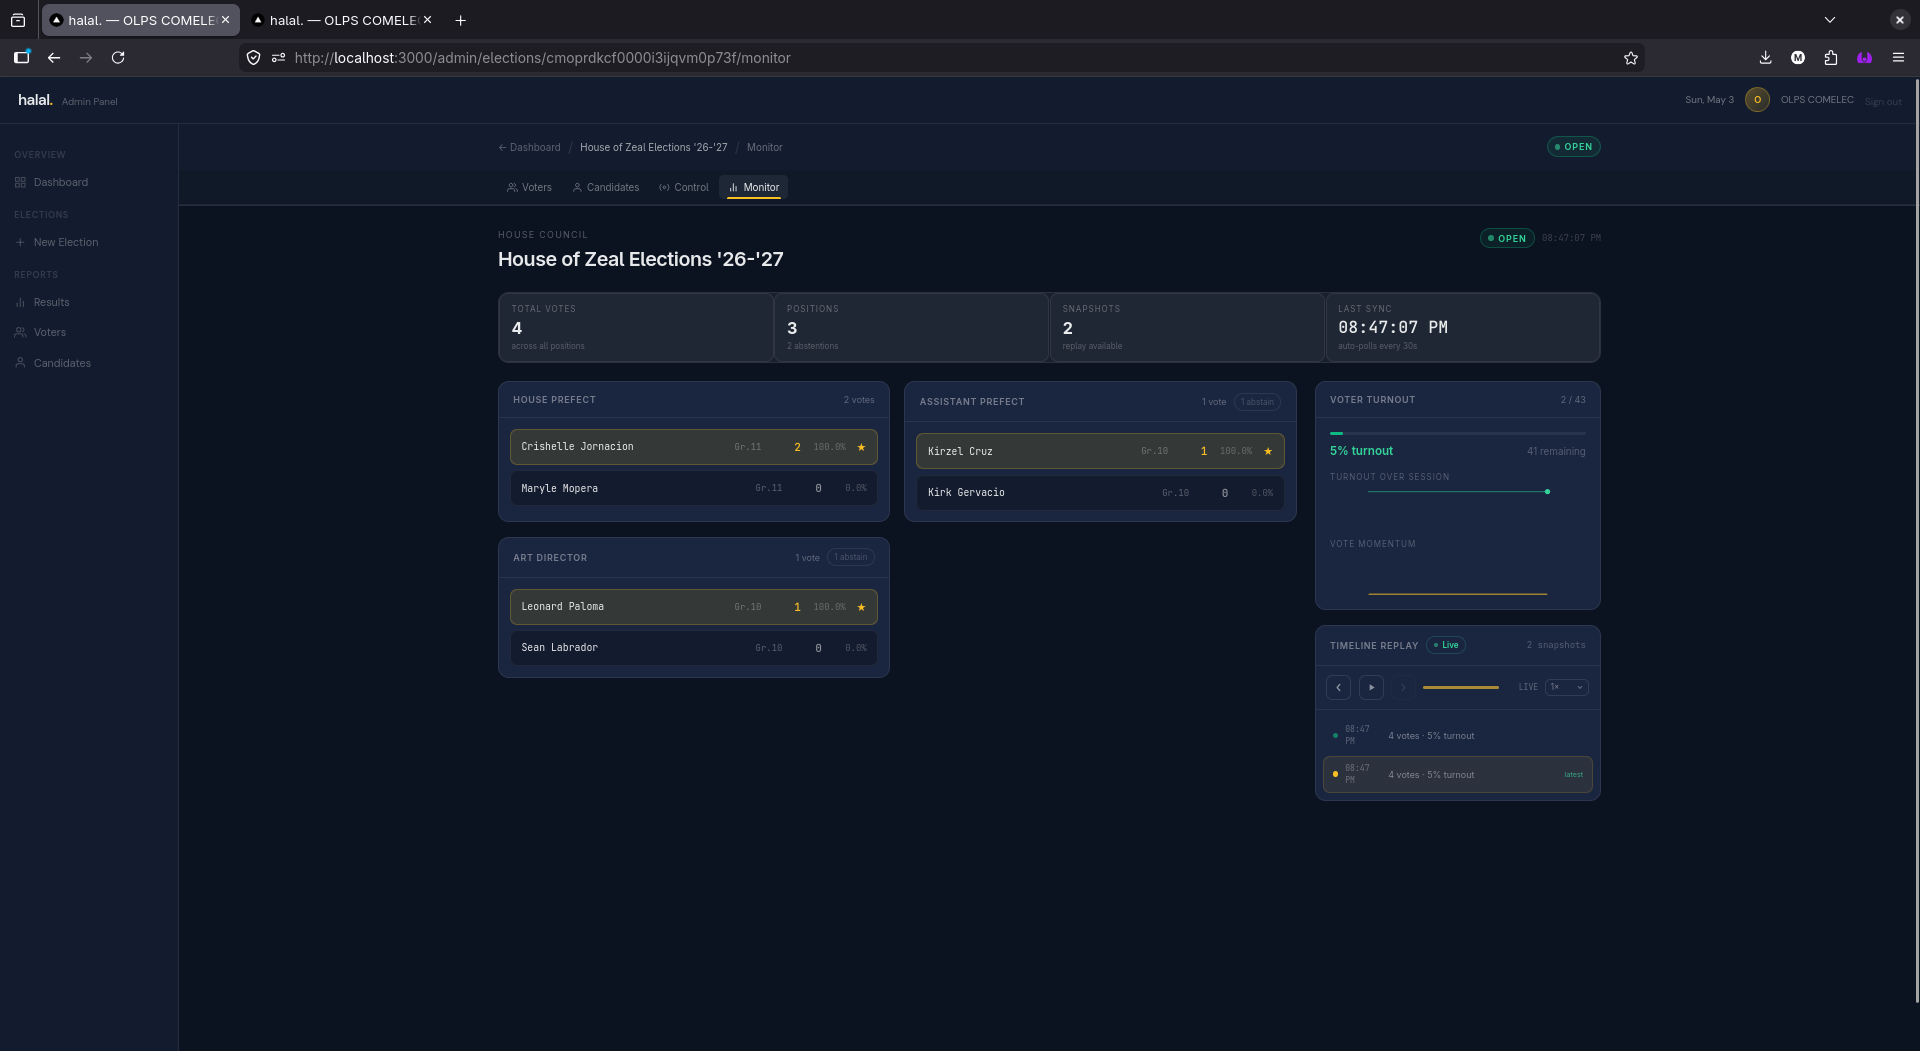
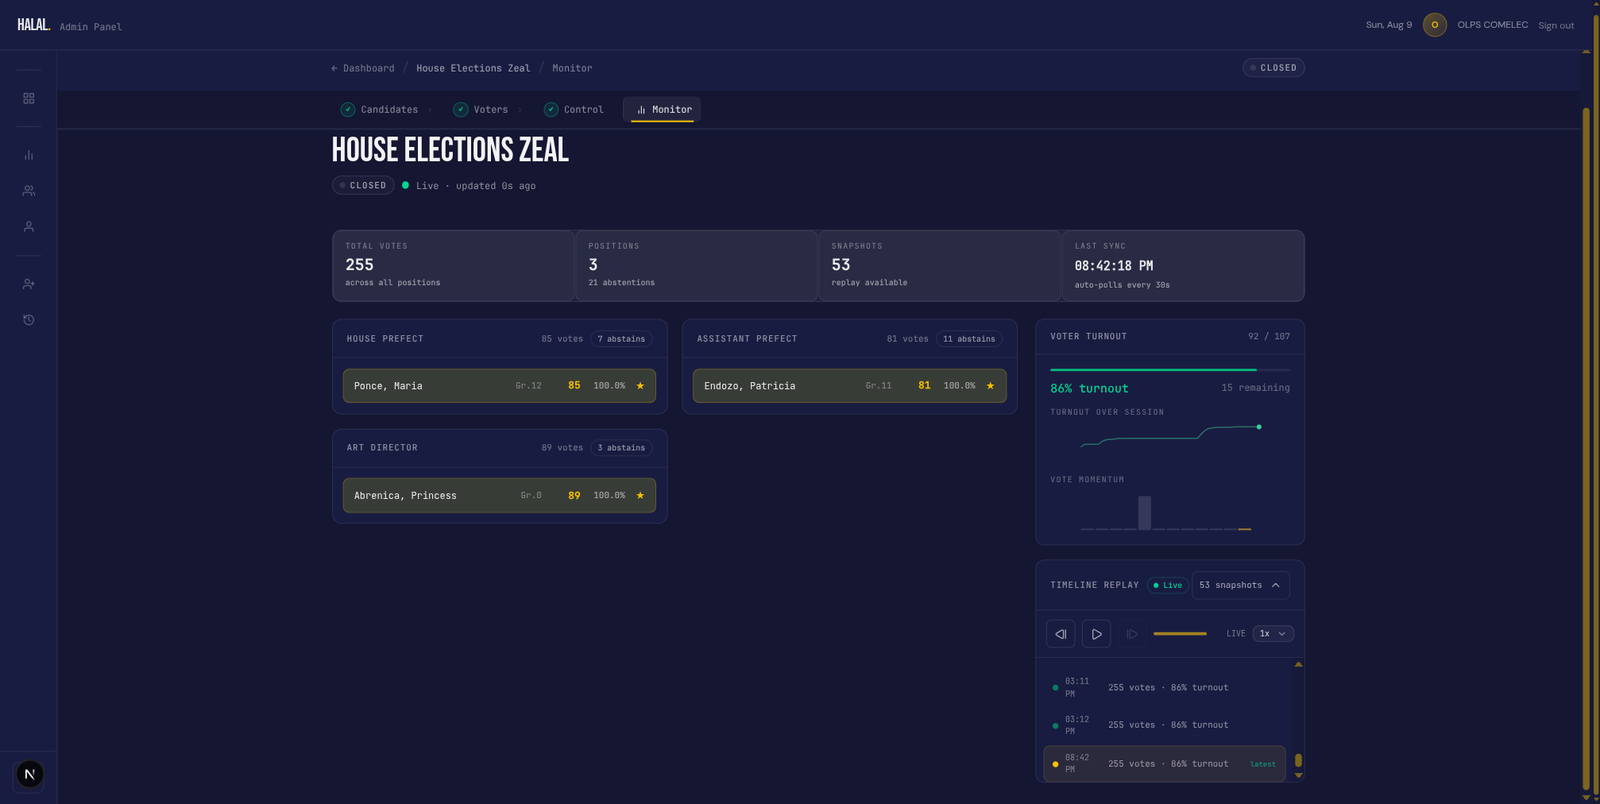
feat: refresh halal. screenshots with a live local run
Fires up the actual halal. app (docker compose db + npm run dev
against its existing local dev data) and recaptures screenshots
instead of reusing the outdated set from a much earlier UI:

- hero.jpg / results.jpg: fresh voter homepage and the public "Final
  Results" page (audit fingerprint + receipt verification), replacing
  the old ballot screenshot — casting a real ballot required
  Commissioner-level access this session didn't have, and the results
  page showcases the same verifiable-voting feature set publicly,
  with no login needed.
- monitor.png / control.png: recaptured against the app's existing
  closed elections, which already carry real turnout/candidate data;
  control.png is cropped to drop the audit-trail section so no admin
  officer names are shown.
- hero/results re-encoded as compressed JPEGs (61KB/69KB vs ~800KB/
  680KB as PNG) since they're gradient-heavy screenshots.

No production data was touched: the Docker container was started via
docker compose, screenshots taken, and the container stopped again
when done.

diff --git a/js/projects.js b/js/projects.js
@@ -21,8 +21,8 @@ const PROJECTS_DATA = {
         { label: 'Auth', value: 'Auth.js' },
       ],
       media: [
-        { src: 'public/projects/halal/hero.png', caption: 'Voter homepage' },
-        { src: 'public/projects/halal/ballot.png', caption: 'Official ballot' },
+        { src: 'public/projects/halal/hero.jpg', caption: 'Voter homepage' },
+        { src: 'public/projects/halal/results.jpg', caption: 'Public results & receipt verification' },
         { src: 'public/projects/halal/monitor.png', caption: 'Live results monitor' },
         { src: 'public/projects/halal/control.png', caption: 'Election control panel' },
       ],
